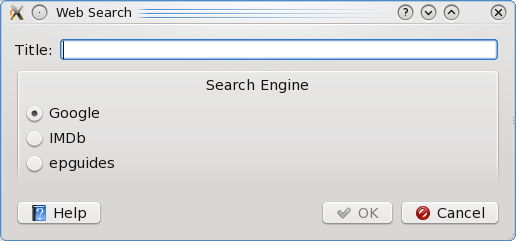
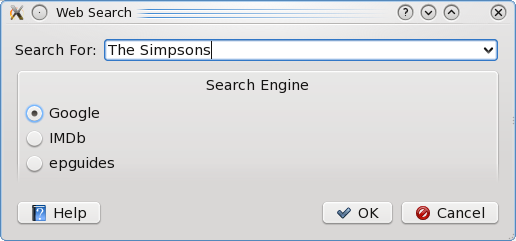
Add actors, directors and ep title to web search

diff --git a/help/en/searching.html b/help/en/searching.html
@@ -12,7 +12,12 @@ engines:<p>
 </center><p>
 
 The search request will be sent to your computer's default
-web browser.<p>
+web browser.  It is also possible to select the episode title,
+actors, or directors for searching:<p>
+
+<center>
+<img src="search_web_options.png">
+</center><p>
 
 <a href="index.html">Return to main index</a>
 

diff --git a/src/websearchdialog.cpp b/src/websearchdialog.cpp
@@ -26,7 +26,7 @@ WebSearchDialog::WebSearchDialog(QWidget *parent)
 
     setWindowModality(Qt::WindowModal);
 
-    connect(titleEdit, SIGNAL(textChanged(QString)), this, SLOT(titleChanged(QString)));
+    connect(searchFor, SIGNAL(editTextChanged(QString)), this, SLOT(titleChanged(QString)));
 
     buttonBox->button(QDialogButtonBox::Ok)->setEnabled(false);
     connect(buttonBox, SIGNAL(helpRequested()), this, SLOT(help()));
@@ -36,6 +36,16 @@ WebSearchDialog::~WebSearchDialog()
 {
 }
 
+void WebSearchDialog::addSearchItem(const QString &text)
+{
+    searchFor->addItem(text);
+}
+
+void WebSearchDialog::addSearchItems(const QStringList &list)
+{
+    searchFor->addItems(list);
+}
+
 QUrl WebSearchDialog::url() const
 {
     QList<QRadioButton *> buttons = groupBox->findChildren<QRadioButton *>();
@@ -43,7 +53,7 @@ QUrl WebSearchDialog::url() const
         if (buttons.at(index)->isChecked()) {
             QString url = buttons.at(index)->property("url").toString();
             url += QString::fromLatin1
-                (QUrl::toPercentEncoding(title(), "/?:"));
+                (QUrl::toPercentEncoding(searchText(), "/?:"));
             return QUrl(url);
         }
     }

diff --git a/src/mainwindow.cpp b/src/mainwindow.cpp
@@ -417,7 +417,15 @@ void MainWindow::webSearch()
     QModelIndex index = programmes->selectionModel()->currentIndex();
     if (index.isValid()) {
         TvProgramme *programme = static_cast<TvProgramme *>(index.internalPointer());
-        searchDlg.setTitle(programme->title());
+        searchDlg.setSearchText(programme->title());
+        searchDlg.addSearchItem(programme->title());
+        if (!programme->subTitle().isEmpty()) {
+            searchDlg.addSearchItem
+                (programme->title() + QLatin1Char(' ') +
+                 programme->subTitle());
+        }
+        searchDlg.addSearchItems(programme->actors());
+        searchDlg.addSearchItems(programme->directors());
     }
     if (searchDlg.exec() == QDialog::Accepted)
         QDesktopServices::openUrl(searchDlg.url());

diff --git a/src/websearchdialog.h b/src/websearchdialog.h
@@ -29,8 +29,11 @@ public:
     explicit WebSearchDialog(QWidget *parent = 0);
     ~WebSearchDialog();
 
-    QString title() const { return titleEdit->text(); }
-    void setTitle(const QString &title) { titleEdit->setText(title); }
+    QString searchText() const { return searchFor->currentText(); }
+    void setSearchText(const QString &text) { searchFor->setEditText(text); }
+
+    void addSearchItem(const QString &text);
+    void addSearchItems(const QStringList &list);
 
     QUrl url() const;
 
